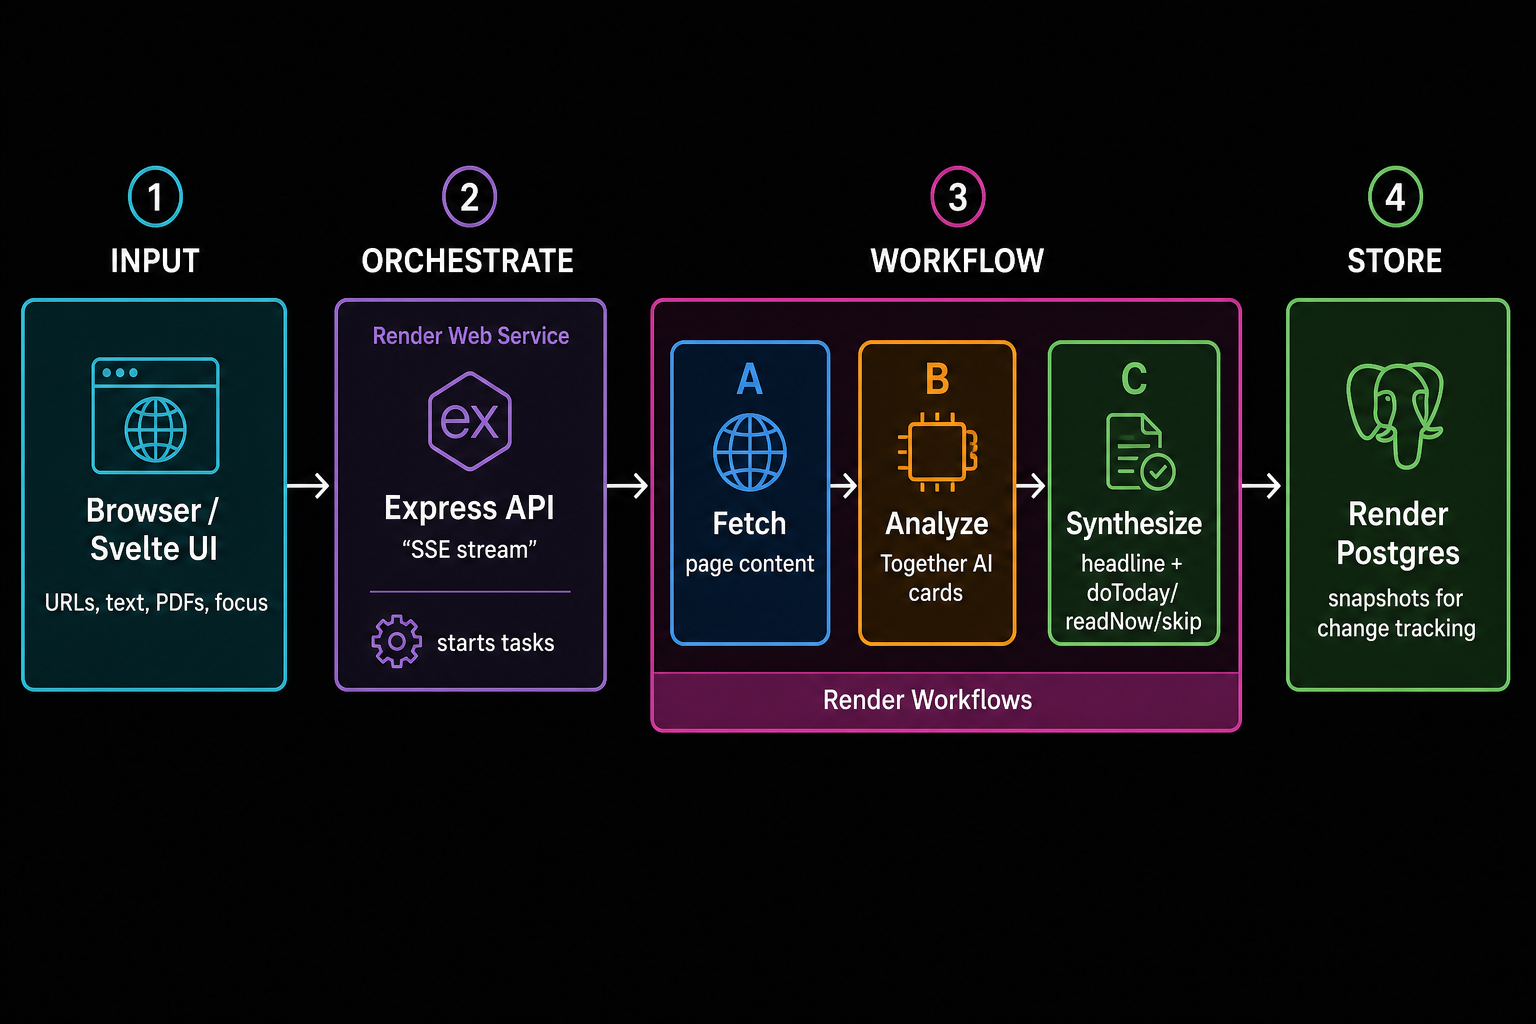
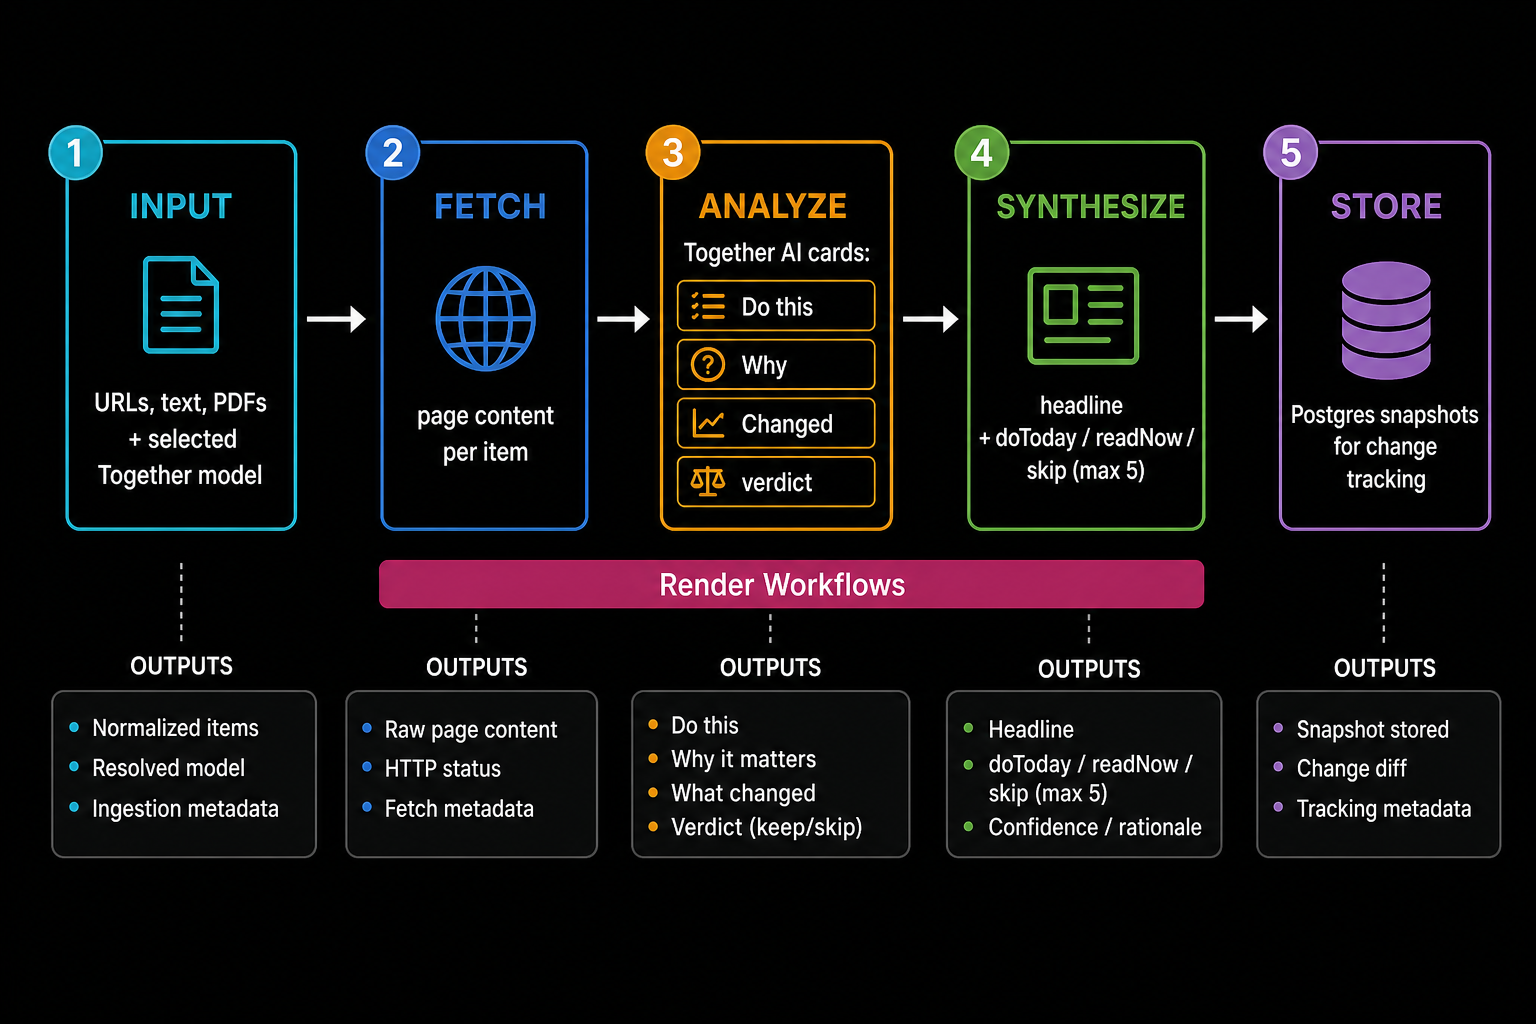
Refresh README for model picker and operator-accurate deploy steps.
Rewrite for new-user-first structure, document TOGETHER_API_KEY on both services, and update architecture diagrams.

diff --git a/README.md b/README.md
@@ -2,9 +2,9 @@
 
 [![Read It For Me](static/images/screenshot.png)](https://read-it-for-me.onrender.com/)
 
-Digest for links, pasted text, and PDFs. Each item answers what changed, why it matters, what to do, and whether it is worth reading fully.
+Paste links, notes, or PDFs. Get action-first digest cards and a short summary of what to do, what to read, and what to skip. Inference runs on [Together AI](https://www.together.ai/) inside [Render Workflows](https://render.com/docs/workflows).
 
-[Live demo](https://read-it-for-me.onrender.com/) · [GitHub](https://github.com/render-examples/read-it-for-me-t)
+[Live demo](https://read-it-for-me.onrender.com/) · [GitHub](https://github.com/render-examples/read-it-for-me-t) · [Workflows docs](https://render.com/docs/workflows)
 
 <p align="left">
   <a href="https://render.com/deploy?repo=https://github.com/render-examples/read-it-for-me-t">
@@ -19,6 +19,7 @@ Inference by [<img src="static/images/together-ai-logo.png" alt="" height="18" /
 ## Table of contents
 
 - [Highlights](#highlights)
+- [What this demo shows](#what-this-demo-shows)
 - [Overview](#overview)
 - [Architecture](#architecture)
 - [Usage](#usage)
@@ -31,21 +32,28 @@ Inference by [<img src="static/images/together-ai-logo.png" alt="" height="18" /
 
 ## Highlights
 
-- **Action-first cards**: every item leads with `Do this`, then why it matters, what changed, and a `read` / `skim` / `skip` call. Summary lists cap at 5.
-- **Together model picker**: searchable dropdown of Together chat models (live from `/v1/models`), passed into Workflow analyze/synthesize tasks.
-- **Composer-first empty state**: topic chips and collection starters (news, ideas, science, culture) so a first run needs almost no typing.
-- **Live progress** over Server-Sent Events while workflow tasks run on Render, with a detachable left-to-right Gantt timeline (`fetch` → `analyze` → `synthesize`).
-- **Change tracking** via Postgres snapshots: repeat sources compare against the last digest.
+- **Action-first cards**: each item leads with **Do this**, then why it matters, what changed, and a `read` / `skim` / `skip` call. Summary lists cap at 5.
+- **Together model picker**: searchable list of Together chat models from `GET /v1/models`. The selected model runs analyze and synthesize.
+- **Live Workflow timeline**: Server-Sent Events drive a detachable left-to-right Gantt (`fetch` → `analyze` → `synthesize`).
+- **Change tracking**: Postgres snapshots compare repeat sources against the last digest.
+- **Split responsibilities**: the web service orchestrates; Together inference stays inside Workflow tasks.
+
+## What this demo shows
+
+| Piece | Role |
+| --- | --- |
+| **[Render Workflows](https://render.com/docs/workflows)** | Durable `fetch_item`, `analyze_item`, and `synthesize_digest` tasks with retries and timeouts |
+| **[Together AI](https://www.together.ai/)** | Chat completions for per-item cards and the digest summary; model chosen in the UI |
+| **[Render Postgres](https://render.com/docs/postgresql)** | Digest runs, item results, and source snapshots |
+| **[Render Web Services](https://render.com/docs/web-services)** | Svelte UI, Express API, SSE streaming, and `GET /api/models` |
 
 ## Overview
 
-Read It For Me is for people who skim newsletters, release notes, and long threads and want a structured digest instead of a paragraph of fluff.
+Read It For Me turns a pile of reading into decisions. Paste URLs (one per line), text blocks, or PDFs, pick a Together chat model if you want something other than the default, and build a digest. Cards stream in as each item finishes. When analysis completes, a synthesis pass returns a headline plus `doToday`, `readNow`, and `skip` lists.
 
-You submit URLs (one per line), pasted text blocks, optional PDFs, and a Together chat model from the searchable picker (default: `meta-llama/Llama-3.3-70B-Instruct-Turbo`). The Express server starts Render Workflow tasks, polls until each completes, and streams status, activity, stage timing, and per-item cards back to the browser. When all items are analyzed, a synthesis task produces a headline plus `doToday`, `readNow`, and `skip` lists.
+Default model: `meta-llama/Llama-3.3-70B-Instruct-Turbo` (override with the picker or `TOGETHER_MODEL`).
 
-The web service lists Together chat models via `GET /api/models` (needs `TOGETHER_API_KEY`). Inference still runs only inside Workflow tasks (`analyze_item`, `synthesize_digest`) using the selected model. Prior snapshots from Postgres feed into the analyze prompt so the model can comment on what changed since the last run.
-
-**Current MVP gaps:** PDF uploads are accepted but text extraction is a placeholder. The workflow service is created manually in the Render Dashboard (not in `render.yaml`), matching the pattern used in other Render Workflows examples.
+**MVP limits:** PDF uploads are accepted, but text extraction is still a placeholder. The Workflow service is created in the Dashboard (not in `render.yaml`), same pattern as other Workflows examples in this workspace.
 
 ## Architecture
 
@@ -55,7 +63,7 @@ The web service lists Together chat models via `GET /api/models` (needs `TOGETHE
 
 | Layer | Folder | Role |
 |-------|--------|------|
-| UI | `frontend/` | Svelte 5 composer, SSE client, digest cards, detachable timeline |
+| UI | `frontend/` | Composer, model picker, SSE client, cards, timeline |
 | API | `server/` | Express routes, orchestrator, Postgres, static SPA |
 | Tasks | `workflow/` | `fetch_item`, `analyze_item`, `synthesize_digest` |
 | Contracts | `shared/` | Types and Render URL helpers |
@@ -64,13 +72,13 @@ The web service lists Together chat models via `GET /api/models` (needs `TOGETHE
 
 ### Web UI
 
-1. Open the [live demo](https://read-it-for-me.onrender.com/) (or your deploy).
+1. Open the [live demo](https://read-it-for-me.onrender.com/).
 2. Pick a topic chip or collection, or paste URLs / text / PDFs.
-3. Optionally search and pick a Together AI chat model (defaults to Llama 3.3 70B).
-4. Click **Build digest**. Cards stream in as each item finishes; the summary panel loads at the end.
-5. Use **New digest** to clear results and start again. Detach the execution timeline when you want a larger Gantt view.
+3. Optionally search and select a Together chat model.
+4. Click **Build digest**. Cards stream in; the summary appears at the end.
+5. Use **New digest** to start over. Detach the timeline for a larger Gantt view.
 
-### API (SSE)
+### API
 
 `POST /api/digest` accepts `multipart/form-data`:
 
@@ -78,21 +86,129 @@ The web service lists Together chat models via `GET /api/models` (needs `TOGETHE
 |-------|------|-------|
 | `urls` | string | Newline-separated URLs (max 20 lines) |
 | `text` | string | Newline-separated text blocks |
-| `model` | string | Optional Together chat model id (defaults to `TOGETHER_MODEL`) |
+| `model` | string | Optional Together chat model id |
 | `pdfs` | file[] | Optional PDFs, max 5 files, 3 MB each |
 
-Also: `GET /api/models` returns `{ models, defaultModel, source }` for the picker.
+SSE events: `status`, `activity`, `progress`, `stage`, `card`, `done`, `error`.
 
-Response is `text/event-stream` with events: `status`, `activity`, `progress`, `stage`, `card`, `done`, `error`.
-
-Requires `RENDER_API_KEY` and `DATABASE_URL` on the web service. Returns `503` if either is missing.
-
-### Health
+`GET /api/models` returns `{ models, defaultModel, source }` for the picker (`source` is `together` or `fallback`).
 
 ```bash
 curl https://read-it-for-me.onrender.com/health
 # {"ok":true}
 ```
+
+## Deploy on Render
+
+### Prerequisites
+
+- [Render account](https://dashboard.render.com/register?utm_source=github&utm_medium=referral&utm_campaign=ojus_demos&utm_content=readme_link)
+- [Together AI API key](https://api.together.ai/)
+- [Render API key](https://render.com/docs/api#1-create-an-api-key)
+
+### 1. Deploy the Blueprint
+
+<p align="left">
+  <a href="https://render.com/deploy?repo=https://github.com/render-examples/read-it-for-me-t">
+    <img src="https://render.com/images/deploy-to-render-button.svg" alt="Deploy to Render" height="28" />
+  </a>
+</p>
+
+Or apply [`render.yaml`](render.yaml) from the Dashboard. That creates:
+
+- **Web service** `read-it-for-me` — `node dist/server/index.js`, health check `/health`
+- **Postgres** `read-it-for-me-db` — wired to `DATABASE_URL`
+
+Set on the web service:
+
+- `RENDER_API_KEY`
+- `TOGETHER_API_KEY` (required for the live model catalog)
+
+### 2. Create the Workflow service
+
+Blueprints do not create Workflow runners yet. In the Dashboard:
+
+1. **New → Workflow** (same repo).
+2. **Build:** `npm install && npm run build`
+3. **Start:** `node dist/workflow/index.js`
+4. **Env:**
+   - `TOGETHER_API_KEY` (required for inference)
+   - `DATABASE_URL` (same Postgres, internal URL)
+   - `TOGETHER_MODEL` (optional)
+5. Confirm the slug is `read-it-for-me-workflow`, or set `WORKFLOW_SLUG` on the web service to match.
+
+### 3. Verify
+
+1. `GET /health` returns `{"ok":true}`
+2. `GET /api/models` returns `"source":"together"` and a long model list
+3. Build a digest with at least one public URL or pasted text
+4. If cards never appear, check Workflow task logs in the Dashboard
+
+## Configuration
+
+### Web service (`read-it-for-me`)
+
+| Variable | Required | Default | If missing |
+|----------|----------|---------|------------|
+| `RENDER_API_KEY` | Yes (digest) | — | `/api/digest` returns 503 |
+| `TOGETHER_API_KEY` | Yes (model list) | — | `/api/models` returns only the default model (`source: fallback`) |
+| `TOGETHER_MODEL` | No | `meta-llama/Llama-3.3-70B-Instruct-Turbo` | Picker / form default |
+| `DATABASE_URL` | Yes (digest) | — | `/api/digest` returns 503 |
+| `WORKFLOW_SLUG` | No | `read-it-for-me-workflow` | Task paths won't match |
+| `GITHUB_REPO_URL` | No | `https://github.com/render-examples/read-it-for-me-t` | Deploy button target |
+| `POLL_INTERVAL_MS` | No | `3000` | Task poll interval |
+| `ENABLE_WORKFLOW_TIMELINE` | No | on | Set `0` to hide the Gantt |
+| `PORT` | No | `3000` | Set by Render in production |
+| `NODE_ENV` | No | — | `production` enables Postgres SSL |
+
+### Workflow service
+
+| Variable | Required | Default | If missing |
+|----------|----------|---------|------------|
+| `TOGETHER_API_KEY` | Yes | — | analyze / synthesize fail |
+| `DATABASE_URL` | Recommended | — | unused for persistence here (web service writes) |
+| `TOGETHER_MODEL` | No | `meta-llama/Llama-3.3-70B-Instruct-Turbo` | used when the client omits `model` |
+
+Use the **same** Together key on web and Workflow. Web lists models; Workflow runs inference.
+
+## Operations
+
+- **Health:** `GET /health`
+- **Logs:** Dashboard → service → Logs. Task output is on the Workflow service.
+- **Database:** `digest_runs`, `source_snapshots`, and `digest_items` are created on web startup when `DATABASE_URL` is set.
+- **Disk:** PDF uploads are read in memory and deleted. Render's filesystem is ephemeral.
+- **Idle:** Free web services spin down after inactivity; the first request after idle can be slow. Free Postgres expires after 30 days.
+
+## Project structure
+
+```
+read-it-for-me/
+├── frontend/src/
+│   ├── App.svelte
+│   ├── components/             # Composer, ModelPicker, cards, chrome
+│   ├── lib/                    # api, copy, phase, composer helpers
+│   └── modules/workflow-timeline/
+├── server/
+│   ├── index.ts
+│   ├── routes/                 # health, digest, models
+│   └── lib/                    # db, orchestrator, sse, together-models
+├── workflow/
+│   ├── index.ts
+│   ├── tasks/                  # fetch, analyze, synthesize
+│   └── lib/together.ts
+├── shared/
+├── static/images/
+├── render.yaml
+└── vite.config.ts
+```
+
+**Where to change things**
+
+- Prompts / JSON shape: `workflow/tasks/analyze.ts`, `workflow/tasks/synthesize.ts`
+- Model catalog: `server/lib/together-models.ts`, `server/routes/models.ts`
+- SSE / orchestration: `server/lib/orchestrator.ts`, `shared/types.ts`
+- UI copy: `frontend/src/lib/copy.ts`
+- Schema: `server/lib/db.ts`
 
 ### Tests
 
@@ -101,138 +217,39 @@ npm test
 npm run build
 ```
 
-## Deploy on Render
-
-<p align="left">
-  <a href="https://render.com/deploy?repo=https://github.com/render-examples/read-it-for-me-t">
-    <img src="https://render.com/images/deploy-to-render-button.svg" alt="Deploy to Render" height="28" />
-  </a>
-</p>
-
-Primary path: Blueprint for the web service and database, then a manual Workflow service.
-
-### 1. Push to GitHub
-
-This repo lives at [render-examples/read-it-for-me-t](https://github.com/render-examples/read-it-for-me-t). Fork or connect it if you are deploying your own copy.
-
-### 2. Deploy the Blueprint
-
-Use the **Deploy to Render** button in the app UI, or apply [`render.yaml`](render.yaml) from the Render Dashboard. This creates:
-
-- **Web service** `read-it-for-me` — `node dist/server/index.js`, health check `/health`
-- **Postgres** `read-it-for-me-db` — connection string wired to `DATABASE_URL`
-
-Set `RENDER_API_KEY` and `TOGETHER_API_KEY` on the web service (Account Settings → API Keys for Render; Together dashboard for the model key).
-
-### 3. Create the Workflow service
-
-The Blueprint does not include the workflow runner. In the Dashboard:
-
-1. **New → Workflow** (link the same repo).
-2. **Build command:** `npm install && npm run build`
-3. **Start command:** `node dist/workflow/index.js`
-4. **Environment:**
-   - `TOGETHER_API_KEY` — required
-   - `DATABASE_URL` — same Postgres as the web service (internal URL on the private network)
-   - `TOGETHER_MODEL` — optional, defaults to Llama 3.3 70B Instruct Turbo
-5. Note the workflow **slug** (default expectation: `read-it-for-me-workflow`). Set `WORKFLOW_SLUG` on the web service if yours differs.
-
-### 4. Verify
-
-- `GET /health` returns `{"ok":true}`
-- Submit a digest from the UI with at least one URL
-- Check workflow task logs in the Render Dashboard if cards never appear
-
-## Configuration
-
-### Web service (`read-it-for-me`)
-
-| Variable | Required | Default | If missing |
-|----------|----------|---------|------------|
-| `RENDER_API_KEY` | Yes (for digest) | — | `/api/digest` returns 503; `/health` still works |
-| `TOGETHER_API_KEY` | Yes (for model list) | — | `/api/models` falls back to the default model only |
-| `TOGETHER_MODEL` | No | `meta-llama/Llama-3.3-70B-Instruct-Turbo` | Picker default / form default |
-| `DATABASE_URL` | Yes (for digest) | — | `/api/digest` returns 503; persistence disabled |
-| `WORKFLOW_SLUG` | No | `read-it-for-me-workflow` | Task paths won't match your workflow |
-| `GITHUB_REPO_URL` | No | `https://github.com/render-examples/read-it-for-me-t` | Deploy button points at default repo |
-| `POLL_INTERVAL_MS` | No | `3000` | Task poll interval |
-| `ENABLE_WORKFLOW_TIMELINE` | No | on (unset) | Set to `0` to hide the detachable Gantt and fall back to the activity log |
-| `PORT` | No | `3000` | Set by Render in production |
-| `NODE_ENV` | No | — | `production` enables Postgres SSL |
-
-### Workflow service
-
-| Variable | Required | Default | If missing |
-|----------|----------|---------|------------|
-| `TOGETHER_API_KEY` | Yes | — | `analyze_item` / `synthesize_digest` fail |
-| `DATABASE_URL` | Recommended | — | Snapshots not written from workflow side (web service handles persistence) |
-| `TOGETHER_MODEL` | No | `meta-llama/Llama-3.3-70B-Instruct-Turbo` | Falls back to default model |
-
-## Operations
-
-- **Health check:** `GET /health` — used by Render on the web service.
-- **Logs:** Render Dashboard → service → Logs. Workflow task output appears on the Workflow service.
-- **Database:** Tables `digest_runs`, `source_snapshots`, `digest_items` are created on web service startup when `DATABASE_URL` is set.
-- **Ephemeral disk:** Uploaded PDFs are read in memory and deleted; do not rely on local filesystem persistence on Render.
-- **Free tier:** Web services spin down after inactivity; first request after idle may be slow. Free Postgres expires after 30 days.
-
-## Project structure
-
-```
-read-it-for-me/
-├── frontend/src/
-│   ├── App.svelte              # Phases, streaming, layout shell
-│   ├── components/             # Composer, cards, empty state, chrome
-│   ├── lib/                    # api, copy, phase, composer helpers
-│   └── modules/
-│       └── workflow-timeline/  # Detachable Gantt (delete folder + App import to remove)
-├── server/
-│   ├── index.ts                # Express entry, static files, config route
-│   ├── routes/                 # health, digest
-│   └── lib/                    # db, orchestrator, sse
-├── workflow/
-│   ├── index.ts                # Task registration
-│   ├── tasks/                  # fetch, analyze, synthesize
-│   └── lib/together.ts         # Together AI adapter
-├── shared/                     # types.ts, renderUrls.ts
-├── static/images/              # README screenshots and diagrams
-├── render.yaml                 # Web + Postgres Blueprint
-└── vite.config.ts              # Builds frontend → dist/client
-```
-
-**Where to change things**
-
-- Digest prompts and LLM JSON shape: `workflow/tasks/analyze.ts`, `workflow/tasks/synthesize.ts`
-- SSE event shape: `server/lib/orchestrator.ts`, `shared/types.ts`
-- UI copy and phases: `frontend/src/lib/copy.ts`, `frontend/src/lib/phase.ts`
-- UI layout and streaming client: `frontend/src/App.svelte`, `frontend/src/lib/api.ts`
-- Postgres schema: `server/lib/db.ts`
-
 ## Troubleshooting
+
+**Picker shows only one model / `source: fallback`**
+
+Set `TOGETHER_API_KEY` on the **web** service and redeploy. The Workflow key alone is not enough for `/api/models`.
 
 **`RENDER_API_KEY is not configured`**
 
-Set the key on the web service. The server starts without it, but digest requests are blocked.
+Set it on the web service. Health still works; digests do not.
 
 **`DATABASE_URL is not configured`**
 
-Wire Postgres from the Blueprint on the web service. Digest requires persistence for snapshot diffs.
+Wire Postgres from the Blueprint. Digests need persistence for snapshot diffs.
 
 **Tasks fail immediately / wrong workflow**
 
-Confirm `WORKFLOW_SLUG` on the web service matches the slug shown on your Workflow service in the Dashboard. Task names are `{slug}/fetch_item`, `{slug}/analyze_item`, `{slug}/synthesize_digest`.
+Match `WORKFLOW_SLUG` to the Workflow slug in the Dashboard. Task names are `{slug}/fetch_item`, `{slug}/analyze_item`, `{slug}/synthesize_digest`.
 
-**Together errors**
+**Together errors during analyze/synthesize**
 
-Check `TOGETHER_API_KEY` on the Workflow service and that the model name in `TOGETHER_MODEL` is available on your Together account.
+Check `TOGETHER_API_KEY` on the **Workflow** service and that the selected model is available on your Together account.
+
+**Failed to fetch URL: HTTP 403**
+
+Some sites block scrapers (for example many wikis). Paste the article text instead, or use an open RSS/HTML source.
 
 **PDF content is generic**
 
-Expected in MVP: `fetch_item` returns placeholder text for PDFs until real extraction is added.
+Expected in MVP: `fetch_item` returns placeholder text until extraction is wired.
 
 **Stale UI after deploy**
 
-Run `npm run build` before deploy. The web service serves `dist/client`; Vite dev server is not used in production.
+The web service serves `dist/client`. Confirm the latest deploy is live in the Dashboard.
 
 ## License
 
